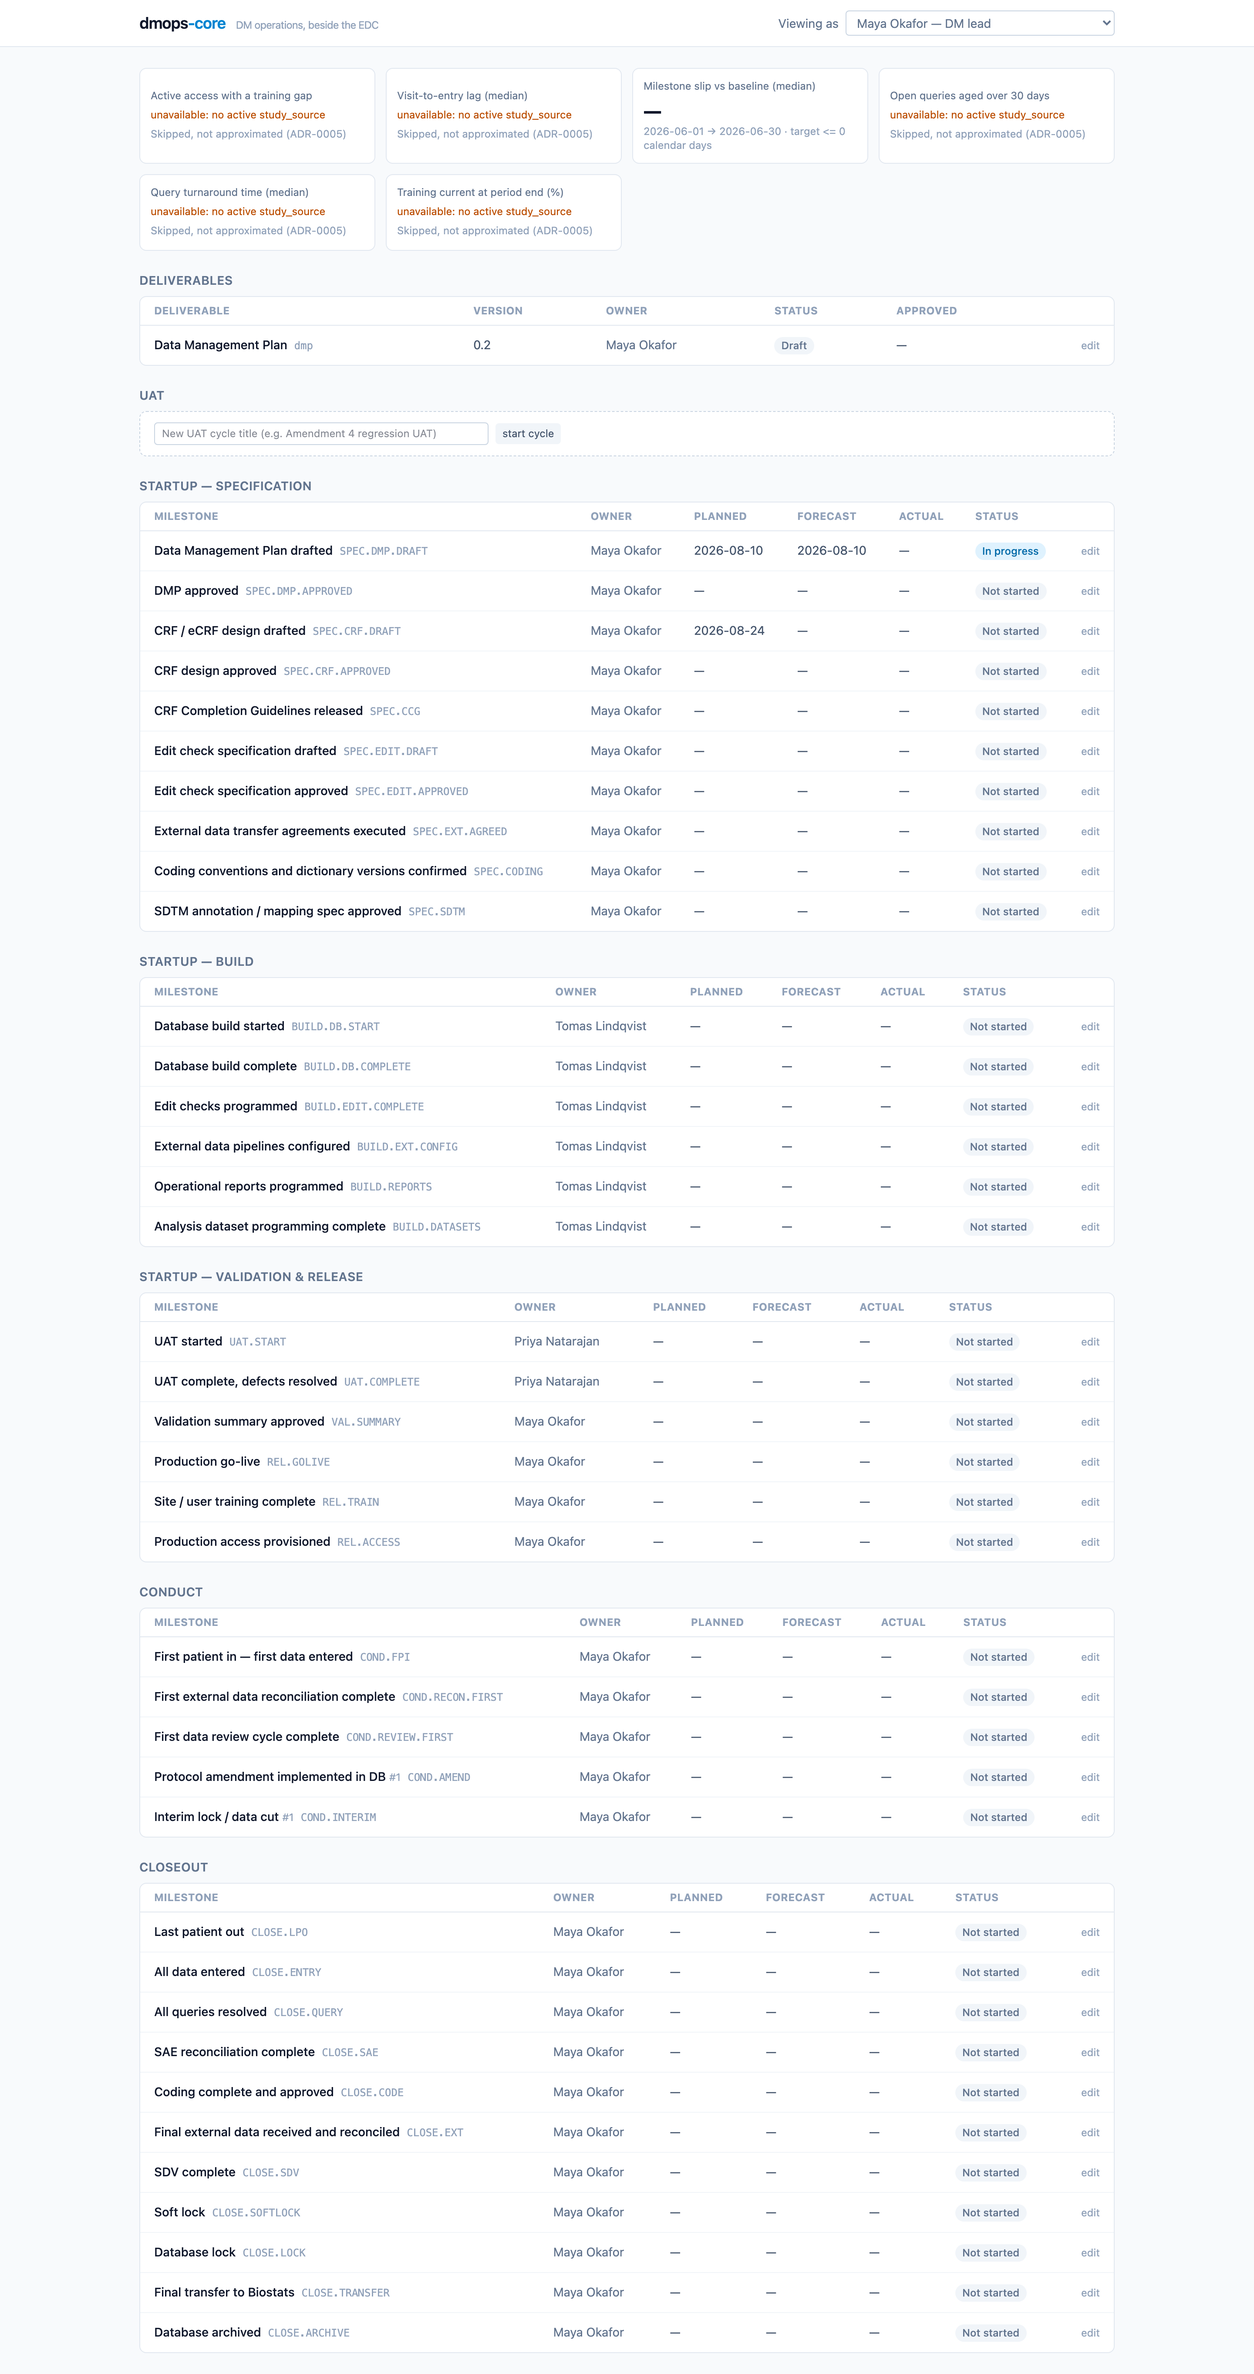
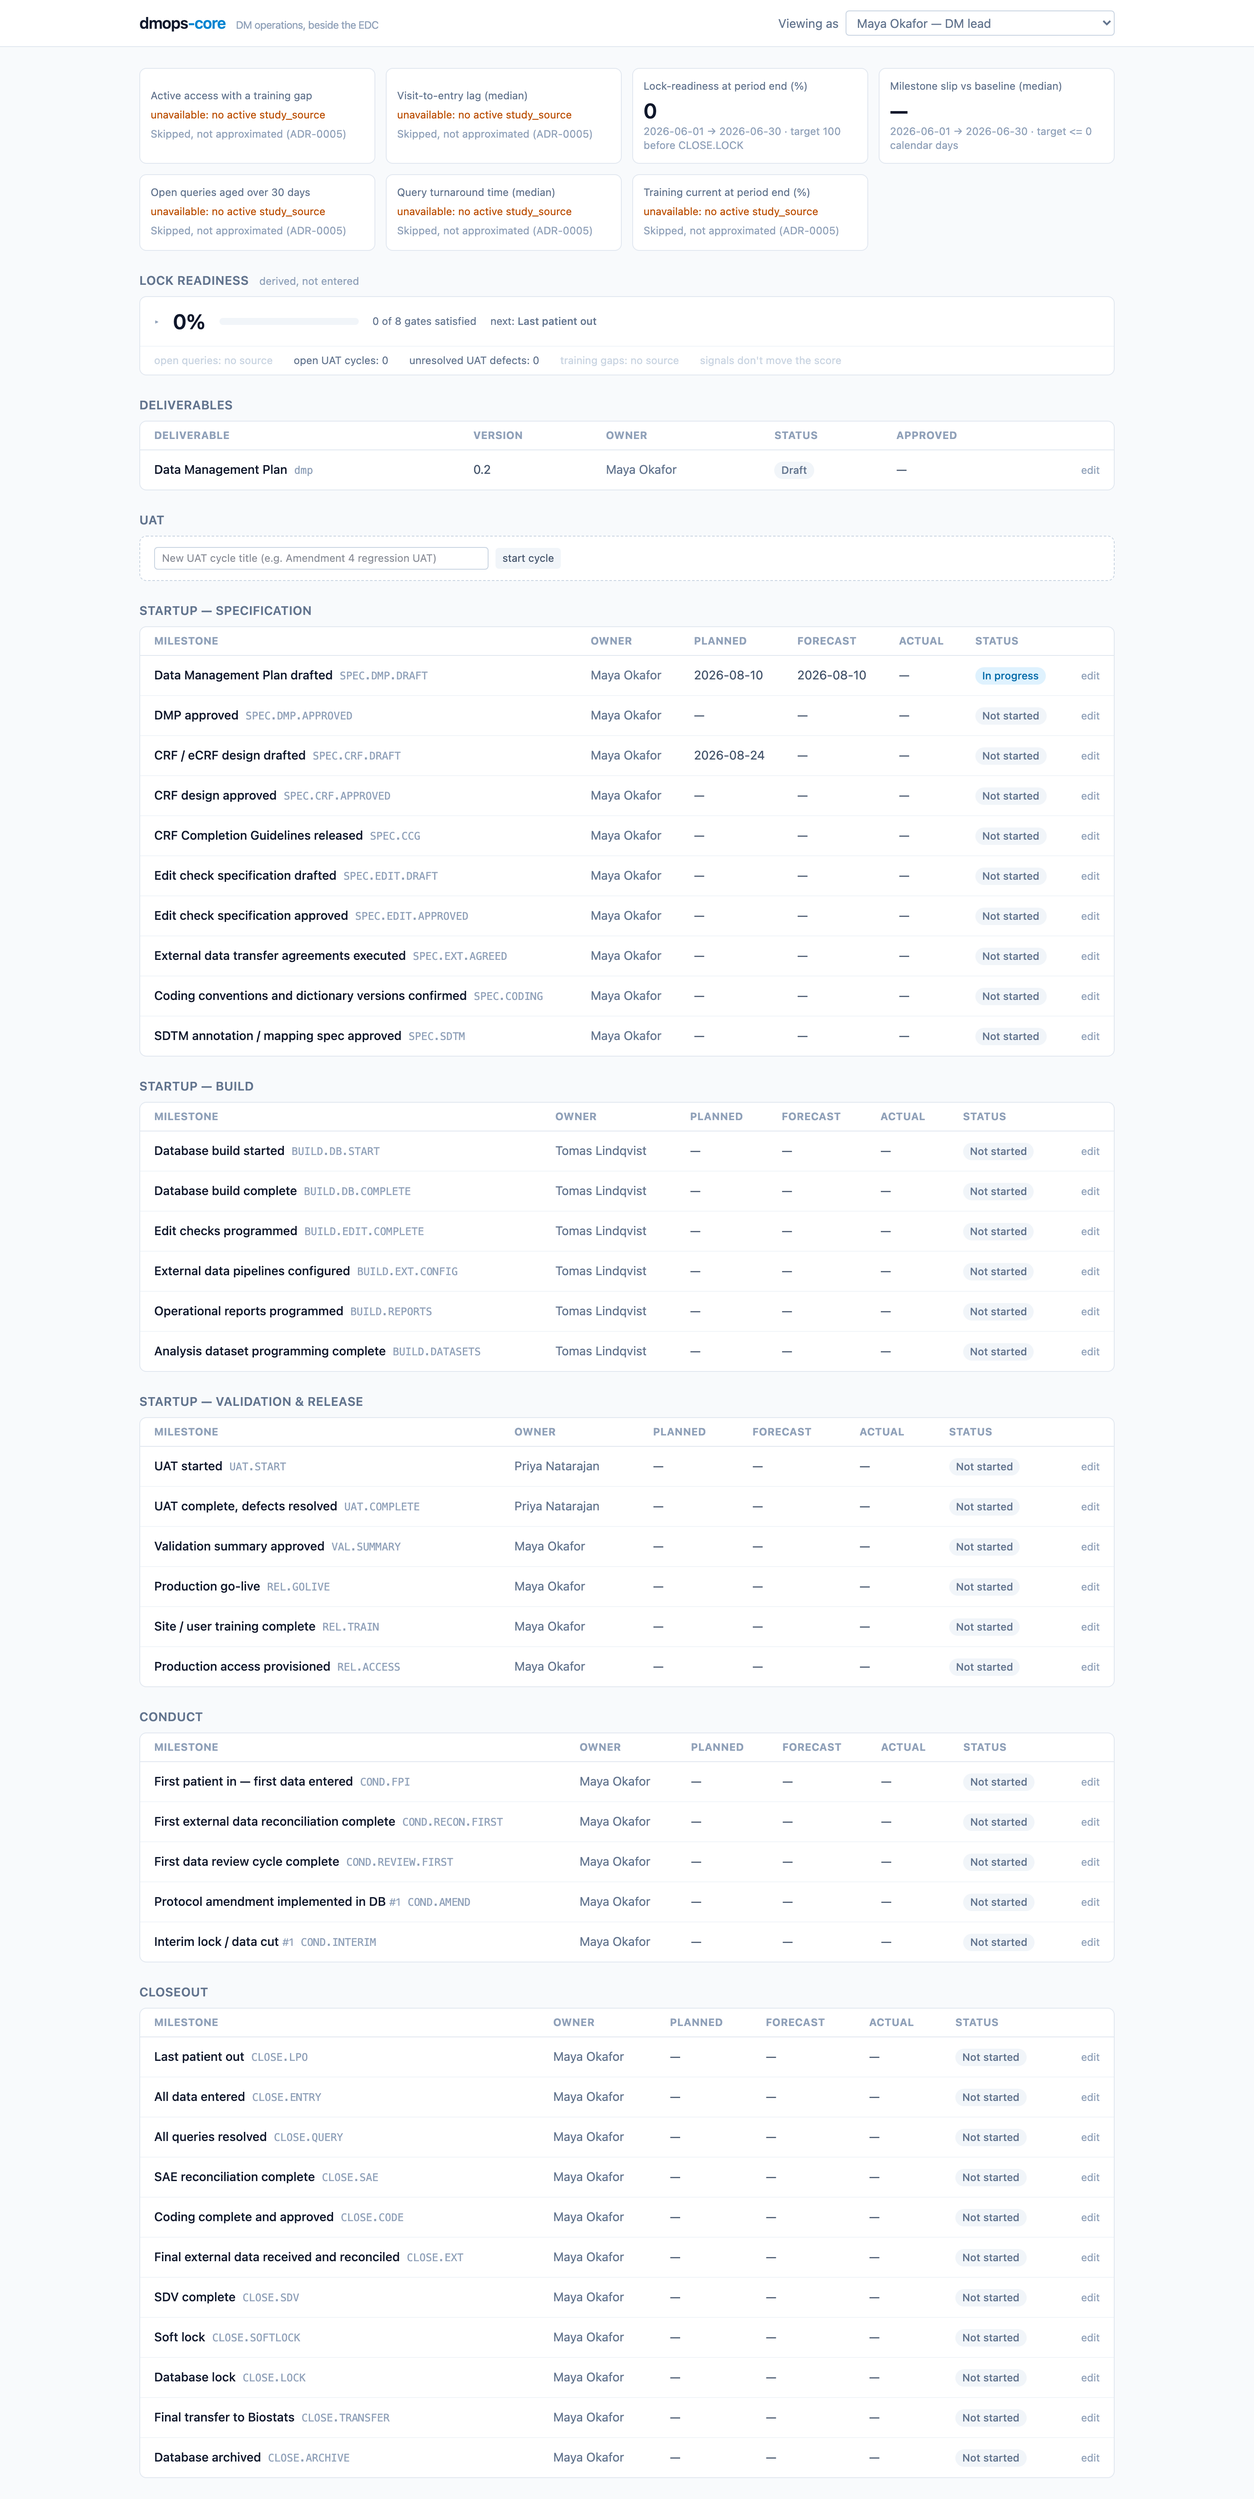
Docs: the lock-readiness story — guide page, tour stop, refreshed screenshots

diff --git a/site/src/content/docs/tour.md b/site/src/content/docs/tour.md
@@ -20,10 +20,10 @@ derived roll-ups; nobody maintains them.
 
 ## 2. Read a board top to bottom
 
-Click **DMOPS-001**. The board stacks the metrics strip, deliverables, UAT
-cycles, the training-and-access roster, and six milestone tables grouped by
-phase, ending with Analysis & Reporting because this study runs the stat
-module
+Click **DMOPS-001**. The board stacks the metrics strip, the lock-readiness
+panel, deliverables, UAT cycles, the training-and-access roster, and six
+milestone tables grouped by phase, ending with Analysis & Reporting because
+this study runs the stat module
 ([ADR-0011](/dmops-core/reference/decisions/0011-stat-programming-as-an-opt-in-module/));
 DMOPS-002 never enabled it, so its board stops at Closeout. In the roster,
 the red **gap** badges are people holding active access with training
@@ -31,7 +31,7 @@ missing, overdue, or expired — mirrored from the source systems, never
 entered here
 ([ADR-0013](/dmops-core/reference/decisions/0013-training-and-access-mirrors/)).
 
-![DMOPS-001's full board as the DM lead: the ten-card metrics strip, the deliverables table, two UAT cycles expanded to their defect tables, the training-and-access roster with gap badges, and the phase-grouped milestone tables below](../../assets/screenshots/study-board.png)
+![DMOPS-001's full board as the DM lead: the eleven-card metrics strip, the lock-readiness panel, the deliverables table, two UAT cycles expanded to their defect tables, the training-and-access roster with gap badges, and the phase-grouped milestone tables below](../../assets/screenshots/study-board.png)
 
 Scan the Conduct section: completed milestones carry slip badges against
 their planned dates, and the in-flight amendment is forecast 11 days late.
@@ -48,7 +48,19 @@ checksummed extract.
 
 *Full guide: [Metrics](/dmops-core/guide/metrics/)*
 
-## 4. Move a forecast, as Maya
+## 4. Read the lock-readiness checklist
+
+Expand the **Lock readiness** panel with the ▸ toggle. The eight gates are
+the taxonomy's own dependencies of database lock — derived, not entered;
+there is no way to edit anything here
+([ADR-0014](/dmops-core/reference/decisions/0014-lock-readiness-derived-from-the-taxonomy/)).
+DMOPS-001 is honestly at 0% with SAE reconciliation blocked, and the
+signals row shows the live work still open — queries, UAT defects, training
+gaps — without moving the score.
+
+*Full guide: [Lock readiness](/dmops-core/guide/lock-readiness/)*
+
+## 5. Move a forecast, as Maya
 
 In the Conduct section, hit **edit** on the protocol amendment row and move
 its forecast date. That is a `dm_lead` write: forecasts are yours to keep
@@ -57,7 +69,7 @@ door is deliberately missing.
 
 *Full guide: [Milestones](/dmops-core/guide/milestones/)*
 
-## 5. Re-baseline, as Daniel
+## 6. Re-baseline, as Daniel
 
 Switch to **Daniel Reyes — DM manager**. Moving a plan is governance, so it
 has its own path: re-baseline the interim lock (`COND.INTERIM`) through the
@@ -81,7 +93,7 @@ get a 403: leads move forecasts, managers move plans.
 
 *Full guide: [Milestones](/dmops-core/guide/milestones/), [The API](/dmops-core/guide/api/)*
 
-## 6. Log a defect, as Priya
+## 7. Log a defect, as Priya
 
 Switch to **Priya Natarajan — Analyst (UAT)**. Expand the in-progress
 regression cycle, log a defect, and note the cycle's **complete** button is
@@ -90,7 +102,7 @@ completion gate is enforced by the API, not by the button.
 
 *Full guide: [UAT](/dmops-core/guide/uat/)*
 
-## 7. Move an analysis forecast, as Omar
+## 8. Move an analysis forecast, as Omar
 
 Switch to **Omar Haddad — Biostatistician (analysis)**. Scroll to the
 Analysis & Reporting section: DMOPS-001 runs the stat module, so the STAT
@@ -102,7 +114,7 @@ analysis team, and DM-phase milestones stay a leadership assertion
 
 *Full guide: [Personas and access](/dmops-core/personas-and-access/)*
 
-## 8. See what the sponsor sees, as Sylvia
+## 9. See what the sponsor sees, as Sylvia
 
 Switch to **Sylvia Tran — Sponsor (curated view)**. The SAE reconciliation
 milestone is still visibly Blocked and three weeks behind, but the rose
@@ -111,7 +123,7 @@ control and the defect resolution notes. Same facts, curated fields.
 
 *Full guide: [Personas and access](/dmops-core/personas-and-access/)*
 
-## 9. Verify the audit trail
+## 10. Verify the audit trail
 
 Everything you just did was written to the hash-chained audit trail,
 attributed to the persona that did it:

diff --git a/site/src/content/docs/guide/lock-readiness.md b/site/src/content/docs/guide/lock-readiness.md
@@ -1,0 +1,72 @@
+---
+title: Lock readiness
+description: A derived checklist for "how close is this study to lock?" — scored, never entered
+---
+
+"How close is this study to database lock?" is the question every closeout
+governance meeting opens with, and it is usually answered with a slide
+assembled by hand from the EDC, the defect log, and memory. dmops-core
+already holds every fact that slide needs, so it derives the answer instead
+([ADR-0014](/dmops-core/reference/decisions/0014-lock-readiness-derived-from-the-taxonomy/)).
+
+## The checklist comes from the taxonomy
+
+The gate set is not configured anywhere. It is the transitive dependency
+closure of `CLOSE.LOCK` in the governed milestone taxonomy
+([ADR-0008](/dmops-core/reference/decisions/0008-governed-milestone-taxonomy/)):
+today, eight closeout milestones from last patient out through soft lock.
+The taxonomy already encodes what lock requires — queries resolved, SAE
+reconciliation, coding, external data, SDV — because that dependency graph
+is reviewed like code. If the checklist is ever wrong, the fix is a taxonomy
+PR, and every study's readiness recomputes.
+
+There is no lock-readiness table and no write path. A readiness score that
+could be typed the week before an inspection is worse than no score, and a
+stored one would be a second copy of the milestone board waiting to drift
+(DM-P1). The only way to move the number is to move the milestones.
+
+![The Lock readiness panel on DMOPS-001: 0%, 0 of 8 gates satisfied, next gate Last patient out, a signals row showing 4 open queries as of June 30, open UAT work, and 5 training gaps, and the expanded gate checklist with SAE reconciliation blocked](../../../assets/screenshots/lock-readiness.png)
+
+## The score is blunt on purpose
+
+Readiness is the unweighted percent of applicable gates whose milestone is
+complete; gates marked `na` drop out of the denominator. Weights were
+considered and rejected — a weighting scheme is dashboard configuration
+wearing a lab coat, and DM-P2 keeps that out of the product. The number is
+for the portfolio glance; the per-gate checklist beside it, with planned
+dates, blockers, and the next unmet gate in dependency order, is what the
+meeting actually works through.
+
+A gate the study never instantiated still appears, unsatisfied. The
+checklist comes from the definition graph, so absence of a row reads as
+"not done", never "not asked".
+
+## Signals ride beside the score
+
+The panel also shows live evidence the system holds that bears on lock:
+open queries as of the latest snapshot (with its as-of date — a snapshot is
+not "now"), UAT cycles still open and defects not yet closed, and training
+gaps from the [access roster](/dmops-core/guide/training-access/). Signals
+never move the score. The score rolls up DM leadership's assertions on the
+board; the signals are the system's own evidence displayed beside them,
+the same posture the training mirrors take next to `REL.TRAIN`.
+
+When the two disagree outright — `CLOSE.QUERY` asserted complete while the
+latest snapshot still shows open queries — the API names the conflict in
+`evidence_conflicts` rather than silently adjusting a number. A signal with
+no wired source shows as a named absence, not a zero
+([ADR-0005](/dmops-core/reference/decisions/0005-adapter-capability-contract/)
+fail-closed, applied to display).
+
+## The readiness trend
+
+`lock_readiness_pct` (DM-Q9) snapshots the score monthly into the immutable
+warehouse, computed like `milestone_slip` from dmops-core's own facts — no
+adapter needed, so it works on every study from day one. "Satisfied as of
+period end" means an actual completion date on or before period end, so the
+history reproduces what was true then, not what the board says now. The
+trend is the burn-up the portfolio roll-up (the next slice) will draw.
+
+Sponsors see the same checklist with gate blocker notes omitted — the
+board's rule (DM-P5). Everything else here is dates and statuses, which is
+exactly what a sponsor tracking lock progress is owed.

diff --git a/site/src/content/docs/guide/metrics.md b/site/src/content/docs/guide/metrics.md
@@ -26,7 +26,7 @@ authoring path.
 
 ## Reading the strip
 
-![The metrics strip on DMOPS-001: ten KPI cards spanning the DM suite (visit-to-entry lag, milestone slip, open query aging, query turnaround, training currency, access-training gap) and the DS suite (issue closure lag, open issue aging, PR cycle time, PR review turnaround), each with its reporting period and target](../../../assets/screenshots/metrics-strip.png)
+![The metrics strip on DMOPS-001: eleven KPI cards spanning the DM suite (visit-to-entry lag, milestone slip, lock readiness, open query aging, query turnaround, training currency, access-training gap) and the DS suite (issue closure lag, open issue aging, PR cycle time, PR review turnaround), each with its reporting period and target](../../../assets/screenshots/metrics-strip.png)
 
 Each card is one metric's latest computed value for the most recent
 reporting period, with its target from the dictionary. Clicking a card opens
@@ -51,7 +51,7 @@ empty table.
 When a study's source system cannot supply a required field, the card says
 so instead of approximating:
 
-![DMOPS-002's metrics strip: three cards report unavailable, no active study source, with the note Skipped, not approximated citing ADR-0005](../../../assets/screenshots/metrics-unavailable.png)
+![DMOPS-002's metrics strip: five cards report unavailable, no active study source, with the note Skipped, not approximated citing ADR-0005, while the two dmops-native metrics — milestone slip and lock readiness — still compute](../../../assets/screenshots/metrics-unavailable.png)
 
 That behavior comes from the adapter capability model; see
 [Adapters](/dmops-core/guide/adapters/).
@@ -85,6 +85,7 @@ The DM suite, on every study:
 | `query_open_aging` | 1.0 | Open queries older than 30 days at period end |
 | `entry_lag` | 1.1 | Median business days from visit date to first data entry |
 | `milestone_slip` | 1.0 | Median days, baseline to actual, completed in period |
+| `lock_readiness_pct` | 1.0 | Percent of lock gates with an actual completion by period end |
 | `training_current_pct` | 1.0 | Percent of required training completed and unexpired at period end |
 | `access_training_gap` | 1.0 | Persons with active access whose training is missing, overdue, or expired |
 
@@ -93,6 +94,10 @@ The two roster metrics compute from the training and access mirrors' frames
 see [Training & access](/dmops-core/guide/training-access/) for the mirror
 surface itself, including why `access_training_gap` reports unavailable in a
 split deployment where access and training come from different sources.
+`lock_readiness_pct` is dmops-native like `milestone_slip` — its source is
+the milestone board and the taxonomy's dependency graph, so it computes on
+every study with no adapter at all; see
+[Lock readiness](/dmops-core/guide/lock-readiness/).
 
 The DS suite, on stat-module studies, computed from the repository frames at
 study grain (site and country are EDC concepts with no meaning for

diff --git a/README.md b/README.md
@@ -88,16 +88,19 @@ report), `pnpm metrics:refresh` (cron-friendly snapshot computation).
 
 ## Status
 
-A working slice 6, not a product. What exists: the study registry, the full
+A working slice 7, not a product. What exists: the study registry, the full
 DM milestone taxonomy with a role-scoped board and audited writes, a
 deliverables surface with eTMF pointers and audited status updates, UAT
 cycle and defect tracking with a completion gate ("UAT complete" refuses to
-land while defects are open, ADR-0010), ten qualified metrics flowing
+land while defects are open, ADR-0010), eleven qualified metrics flowing
 through the adapter pipeline into an immutable snapshot warehouse with trend
 and per-site drill-downs, governed re-baselining with an append-only history
 (ADR-0009), business-day metric calendars as v1.1 of the elapsed-time
 definitions (the version machinery of ADR-0004, exercised once for real),
-the CSV + edc-core + GitHub adapters, and the opt-in stat programming
+the CSV + edc-core + GitHub adapters, lock-readiness scoring derived from
+the taxonomy's own dependency graph — a per-gate checklist and an unweighted
+score with no write path, live signals that never move the score, and a
+monthly readiness snapshot (ADR-0014) — and the opt-in stat programming
 module: 12 governed STAT milestone codes in an Analysis & Reporting phase,
 per-study module opt-in that filters the board and the metrics strip, a
 phase-scoped write posture for programmer and biostat seats, the analysis
@@ -111,10 +114,9 @@ display-only, extract-provenanced mirror tables, a roster that flags active
 access with missing, overdue, or expired training, and two roster metrics
 that snapshot that answer monthly (ADR-0013). What comes next, in order:
 
-1. Lock-readiness scoring.
-2. Portfolio roll-up views, over every module's metrics.
-3. Exports and KPI packs, and holiday-aware metric calendars.
-4. Medrio and Rave adapters (the contract is designed for them; see
+1. Portfolio roll-up views, over every module's metrics.
+2. Exports and KPI packs, and holiday-aware metric calendars.
+3. Medrio and Rave adapters (the contract is designed for them; see
    [Writing an adapter](https://tgerke.github.io/dmops-core/guide/writing-an-adapter/)).
 
 This is not validated software. The IQ script, OQ report, and traceability

diff --git a/docs/01-vision.md b/docs/01-vision.md
@@ -49,8 +49,8 @@ links, quality metrics from source adapters, UAT cycle and defect tracking
 milestones, delivery status, and programming-work metrics read from the
 team's own repositories (ADR-0011, ADR-0012), training and access status
 mirrored from the LMS and the source system's user administration
-(ADR-0013), and — in later phases — lock-readiness scoring and portfolio
-roll-up.
+(ADR-0013), lock-readiness scoring derived from the milestone taxonomy's
+dependency graph (ADR-0014), and — in a later phase — portfolio roll-up.
 
 Out of scope, permanently: clinical data capture (the EDC), query issuance and
 resolution (the EDC), document authoring or e-signature (QMS/eTMF), site

diff --git a/site/src/content/docs/architecture.md b/site/src/content/docs/architecture.md
@@ -55,7 +55,9 @@ team's own repositories
 training and access status mirrored from the LMS and the source system's
 user administration
 ([ADR-0013](/dmops-core/reference/decisions/0013-training-and-access-mirrors/)),
-and, in later phases, lock-readiness scoring and portfolio roll-up. The
+lock-readiness scoring derived from the taxonomy's dependency graph
+([ADR-0014](/dmops-core/reference/decisions/0014-lock-readiness-derived-from-the-taxonomy/)),
+and, in a later phase, portfolio roll-up. The
 DM-only deployment is the default and complete on its own; a study that
 never enables the stat module sees none of it.
 

diff --git a/site/src/content/docs/guide/api.md b/site/src/content/docs/guide/api.md
@@ -66,6 +66,13 @@ write path,
 - `GET /studies/{studyId}/training`: the per-course mirror rows with status
   derived from the dated facts
 
+**Lock readiness** (read-only by construction: the checklist is derived
+from the taxonomy's dependency graph,
+[ADR-0014](/dmops-core/reference/decisions/0014-lock-readiness-derived-from-the-taxonomy/))
+
+- `GET /studies/{studyId}/lock-readiness`: the gate checklist with the
+  unweighted score, live signals, and any named evidence conflicts
+
 **Metrics**
 
 - `GET /studies/{studyId}/metrics`: latest value per metric, including
